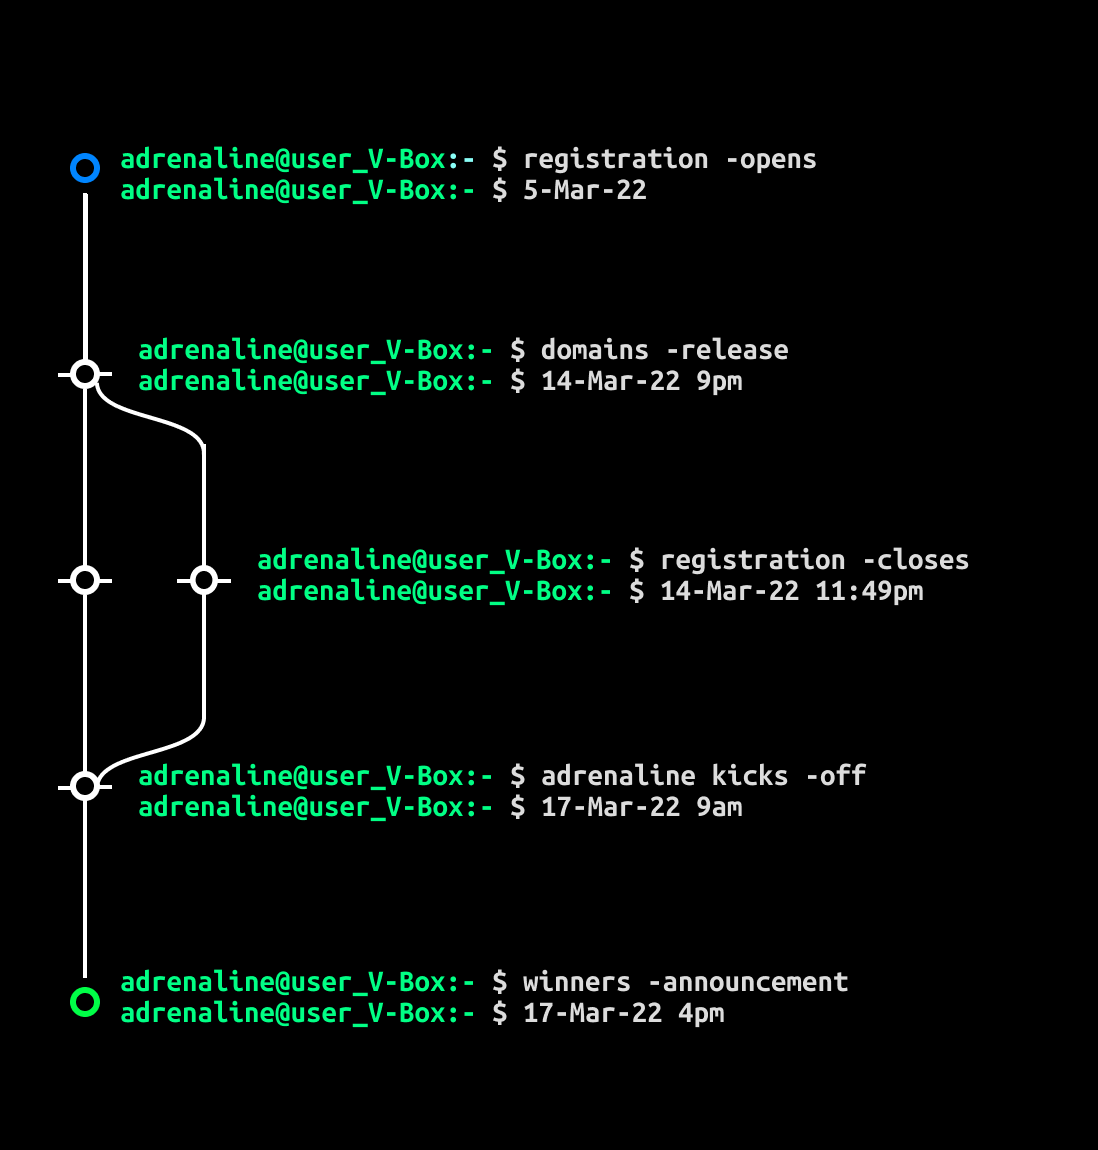
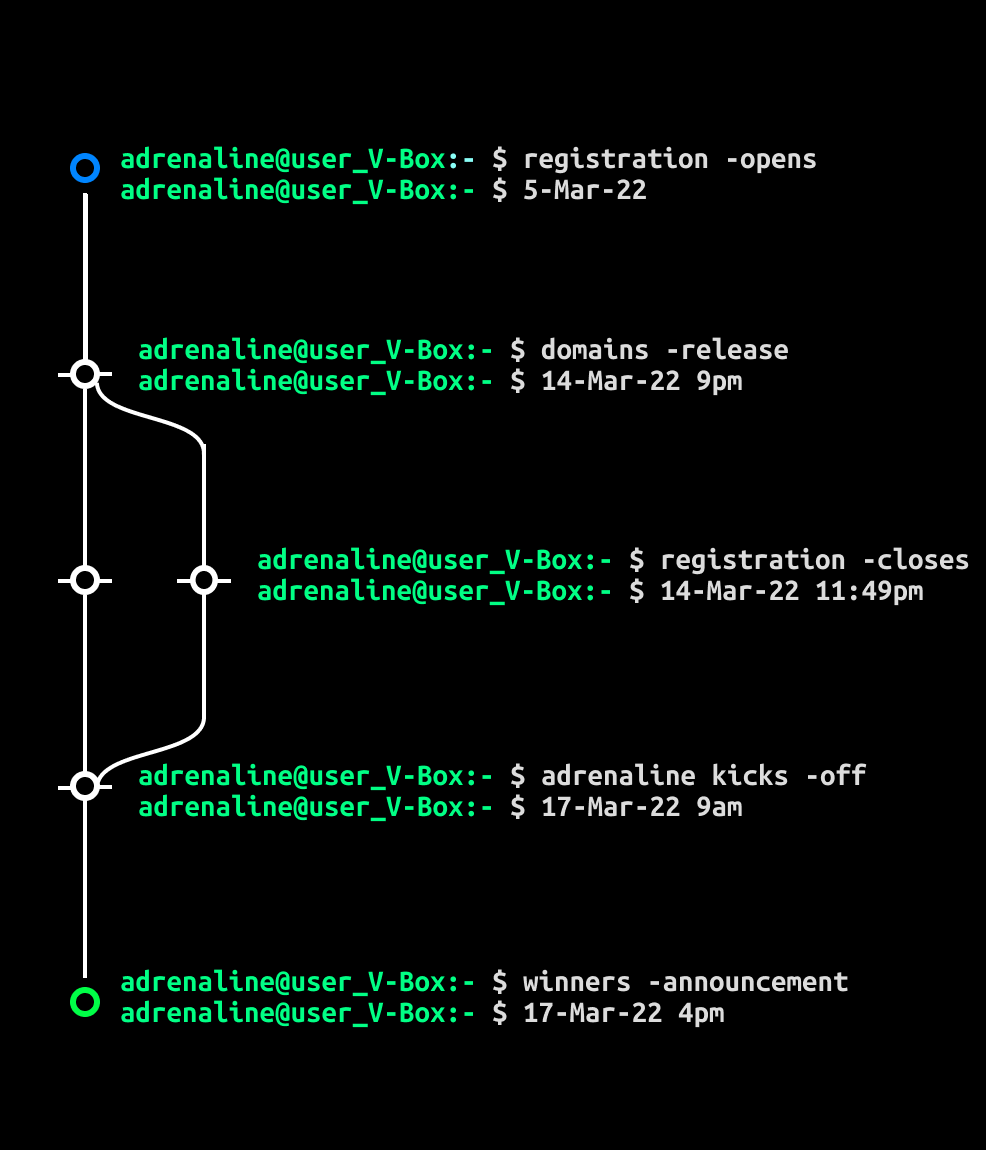
updated timeline content changes

Changed region(s): [[0.0609, 0.1217, 0.9736, 0.913], [0.8215, 0.6391, 0.8824, 0.7]]

diff --git a/src/components/Timeline/index.js b/src/components/Timeline/index.js
@@ -12,7 +12,7 @@ export default function Timeline() {
             </div>
             <Fade right>
             <div className="timeline">
-                <div className="big"><img src={require('./timefinfull.png')} className="timefull" /></div>
+                <div className="big"><img src={require('./timet.png')} className="timefull" /></div>
                 
             </div>
             </Fade>
